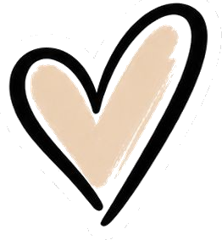
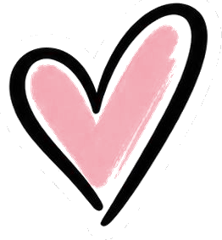
Recolour the welcome backdrop and stickers to red and black
- Sticker images: brown and cream fills become red, black outlines stay
- Pin wall uses soft red and grey tiles instead of cream, blue and lilac
- Share form switches get a black knob (also on web)

Changed region(s): [[0.1351, 0.0875, 0.8108, 0.7875]]

diff --git a/mobile/src/features/auth/screens/AuthScreen.tsx b/mobile/src/features/auth/screens/AuthScreen.tsx
@@ -32,9 +32,9 @@ const STICKERS = {
 
 const GOLD = "#F2B627";
 
-// Arka plandaki pano: pastel karolardan oluşan, alta doğru beyaza eriyen bir
+// Arka plandaki pano: açık kırmızı ve gri karolardan oluşan, alta doğru beyaza eriyen bir
 // "pin duvarı". Görsel dosyası kullanmaz; her ekran genişliğinde yeniden dizilir.
-const PIN_TONES = [colors.accentSoft, "#F1EBDA", "#DDE6F1", "#F6DCDC", colors.surface, "#ECDDF1"];
+const PIN_TONES = [colors.accentSoft, colors.chip, "#F5C9CF", colors.surface, "#D6D6D3", colors.accentSoft];
 const PIN_HEIGHTS = [
   [150, 110, 190, 130, 170],
   [100, 180, 120, 200, 140],

diff --git a/mobile/src/features/polls/screens/CreatePollScreen.tsx b/mobile/src/features/polls/screens/CreatePollScreen.tsx
@@ -479,7 +479,9 @@ function SwitchRow({
         value={value}
         onValueChange={onChange}
         trackColor={{ true: colors.accent, false: colors.line }}
-        thumbColor="#FFFFFF"
+        thumbColor={colors.text}
+        // Web'de açık konumdaki topun rengi ayrı bir özellikten okunur.
+        {...({ activeThumbColor: colors.text } as object)}
       />
     </View>
   );

diff --git a/mobile/src/features/games/screens/GamesScreen.tsx b/mobile/src/features/games/screens/GamesScreen.tsx
@@ -499,7 +499,7 @@ const styles = StyleSheet.create({
     height: 144,
     borderRadius: 10,
     overflow: "hidden",
-    backgroundColor: "#F3E3D3",
+    backgroundColor: colors.surface,
     borderWidth: 5,
     borderColor: colors.background,
     alignItems: "center",
